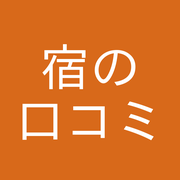
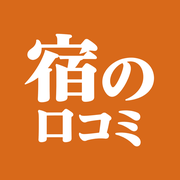
アイコンを Threads と同じものに差し替え
Claude-Session: https://claude.ai/code/session_016wrbsboNobFJBTGkhVr8uo

Changed region(s): [[0.1111, 0.1667, 0.8611, 0.8333]]

diff --git a/STATUS.md b/STATUS.md
@@ -9,13 +9,12 @@
 - 2026-11-17: 人がリポジトリ `uniiqcode/yado-kuchikomi`（公開）を作成。名前「宿の口コミ」、URL `yado-kuchikomi`、アイコンは Threads と同じもの（人の決定）
 - 2026-11-17: 初期版を作成（業スー酒場のつくりを参考に）。並びは追加した順（先着順）、印は「一人旅」「遍路宿」、絞り込み（すべて・一人旅・遍路宿・行ってみたい）、「行ってみたい」の保存（そのスマホの中だけ）、検索対策（`docs/seo.md`）、ホーム画面に追加のボタン
 - 最初の7軒: 音羽旅館（淡路島）・民宿まるたや（遍路、楽天に無い宿）・わすけ（新潟）・室戸荘（遍路）・原田屋旅館（山口）・蔵空間蔵宿（遍路）・国民宿舎 大城（山口）。リンクは affiliate-ops の台帳と一致することを確かめた
-- アイコンは**仮**（ゴシック体の文字）。人が Threads と同じアイコン（1080×1080）を `design/logo-source.png` に置き、`python3 scripts/make_icons.py` で作り直す
+- 2026-11-17: 人が Threads と同じアイコン（1080×1080）を渡した → `design/logo-source.png` に置き、アイコン・共有用の絵を作り直した
 
 ## 次にやること
 
 | やること | 担当 |
 |----------|------|
-| 本物のアイコン（Threads と同じ 1080×1080）を渡す → Claude が `design/logo-source.png` に置いて作り直す | 人＋Claude |
 | 楽天アフィリエイトの「サイト情報」に `https://uniiqcode.com/yado-kuchikomi/` を登録する（リンクを載せる前に） | 人 |
 | リポジトリの Settings → Pages の Source を「GitHub Actions」にする | 人 |
 | PR をマージして公開 → Search Console にサイトマップを送信、robots.txt に1行（`docs/seo.md`） | 人＋Claude |
